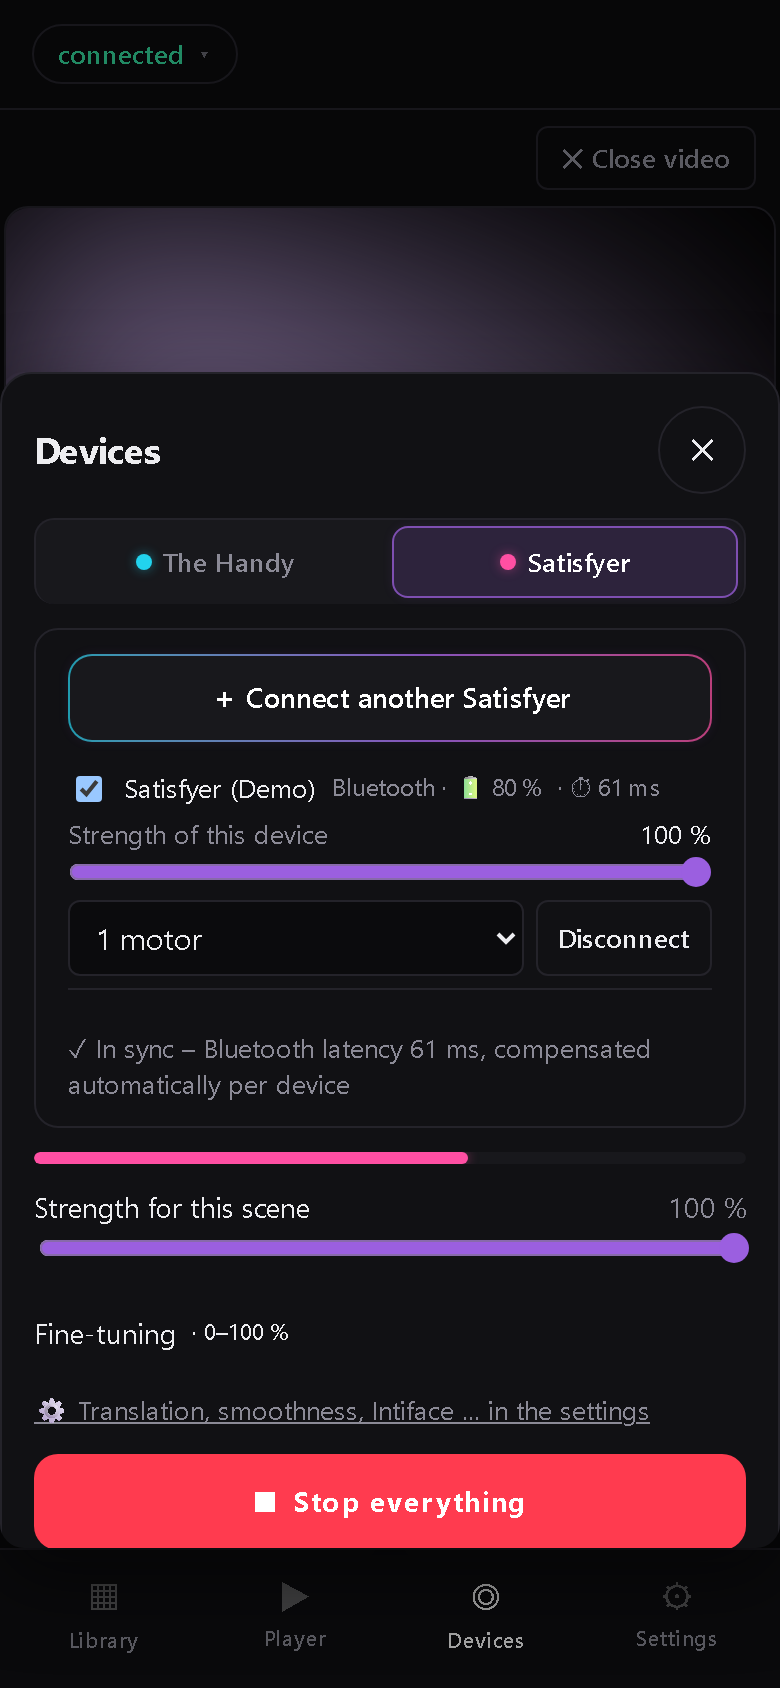
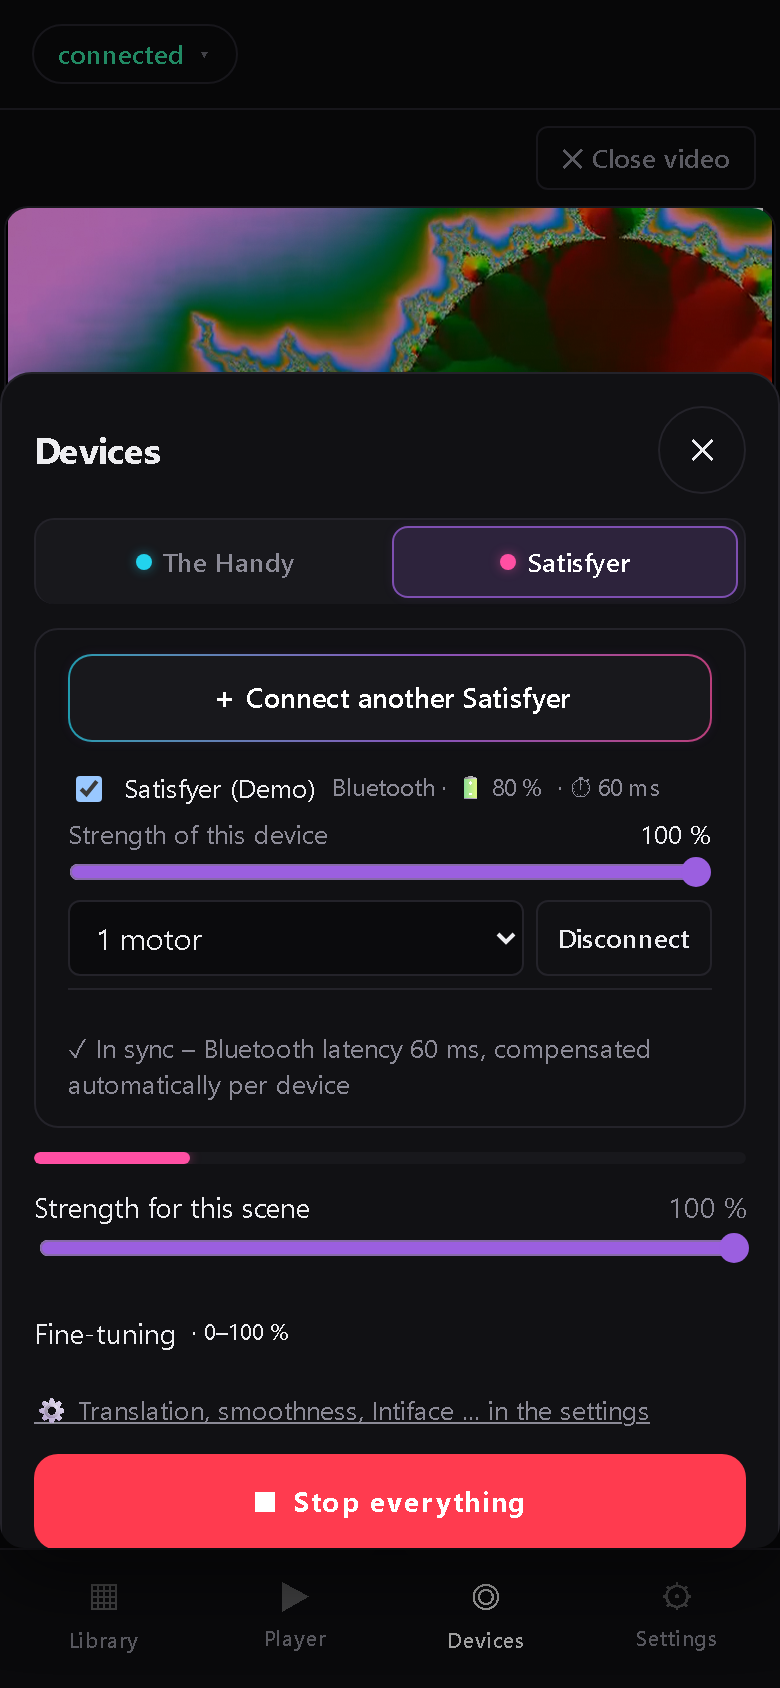
GitHub-Seite: scharfe Screenshots, kürzere README, „Läuft auf“, Coming next, neuer ZIP-Name
- Screenshots/GIF scharf mit neutralen Testvideos und Titeln (Demo-Geräte, ohne Weichzeichner)
- README: lange Abschnitte aufklappbar (Kurzfassung bleibt sichtbar), Liste „Runs on“ beim Schnellstart,
  „Coming next“ (TV-Streamen in Test), Links zu Discussions
- Release: ab 2.0 heißt das ZIP funscript-player-vX.Y.Z.zip (Ordner funscript-player), 1.x unverändert;
  oben in jedem Release ein fester Block „Install / Update“ (bei Vorabversionen mit PLAYER_VERSION)
- Issue-Vorlagen: Link „Questions & ideas“ zu Discussions

Changed region(s): [[0.0, 0.1232, 1.0, 0.2464], [0.2462, 0.6777, 0.6154, 0.7085]]

diff --git a/README.md b/README.md
@@ -36,7 +36,7 @@
   <img src="docs/img/screens/phone-devices.png" alt="Devices: The Handy and Satisfyer" width="260">
 </p>
 <p align="center"><img src="docs/img/screens/desktop-player.png" alt="The player on a PC: video, script intensity, devices and the up-next list" width="100%"></p>
-<p align="center"><sub>Screenshots from the built-in demo mode (<code>/demo</code>): videos, previews and names are blurred.</sub></p>
+<p align="center"><sub>Screenshots with neutral test videos and virtual devices (built-in demo mode, <code>/demo</code>).</sub></p>
 
 <p align="center">
   <img src="docs/img/gh/h-for-whom.svg" alt="Who is it for? Whatever you own" width="100%">
@@ -72,11 +72,10 @@ the Funscript – at the same time, from the same script. It runs on your own se
 
 ## 🚀 Quick start
 
-You need a server with **Docker** (Linux, NAS, Raspberry Pi, Mac with Apple silicon – images for amd64 and arm64).
-Grab `handy-player-linux-vX.Y.Z.zip` from the [latest release](../../releases/latest) (or clone this repo), then:
+Grab `funscript-player-vX.Y.Z.zip` from the [latest release](../../releases/latest) (or clone this repo), then:
 
 ```bash
-unzip handy-player-linux-vX.Y.Z.zip && cd handy-player
+unzip funscript-player-vX.Y.Z.zip && cd funscript-player
 cp .env.example .env
 nano .env                       # login, Stash address, video folder
 docker compose up -d
@@ -85,37 +84,57 @@ docker logs Funscript-Player    # startup summary with self-check, ends with “
 
 Open `http://<server>:8080`.
 
-- **Login** – required since 2.0. Either set `AUTH_USER` + `AUTH_PASS` in `.env`, or leave them empty: the player then
-  opens a **setup page** where you choose user name and password (change or remove it later in ⚙ → Security &
-  privacy). `LOGIN=off` only if a reverse proxy with its own login protects the player. Forgotten? `LOGIN_RESET=1`,
-  restart, remove the line again.
-- **Stash** – `STASH_URL` is seen from inside the container: on a shared Docker network use the container name
-  (`http://Stash:9999`), not `localhost`. No Stash? `STASH=off`. Address and API key can also be changed in ⚙ → Library.
-- **Video folders** – `MEDIA=/path/to/videos`: every subfolder becomes a source. A video and its script share the
-  name (`Name.mp4` + `Name.funscript`).
-- **HTTPS** – needed for Bluetooth (Satisfyer) and “install as app”: put any reverse proxy in front (Traefik, Caddy,
-  nginx, Nginx Proxy Manager …), e.g. `https://player.example.com` → port 8080. See [Security](#-security--proxy).
+- **Login** – required. Set `AUTH_USER` + `AUTH_PASS` in `.env`, or leave them empty and choose user name and password
+  on the player's **setup page** (change or remove it later in ⚙ → Security & privacy).
+- **Stash** – `STASH_URL` as seen from the container: on a shared Docker network the container name
+  (`http://Stash:9999`), not `localhost`. No Stash? `STASH=off`.
+- **Video folders** – `MEDIA=/path/to/videos`: every subfolder becomes a source; video and script share the name
+  (`Name.mp4` + `Name.funscript`).
+- **HTTPS** – needed for Bluetooth and “install as app”: put any reverse proxy in front (Traefik, Caddy, nginx …).
+  See [Security & proxy](#-security--proxy).
 - **Update** – `docker compose pull && docker compose up -d`. Your `.env` and the `funscript-data` volume stay.
-  Want to try what's next? `PLAYER_VERSION=edge` follows the latest tested state of `main`.
-- **Intel graphics** (optional, faster HQ stream) – enable the two `/dev/dri` lines in `docker-compose.yml` and set
-  `RENDER_GID` (`getent group render`). Without them the HQ stream runs on the CPU.
 
 Everything else is optional and commented out at the bottom of `.env.example`.
 
+### ✅ Runs on
+
+- **Server:** anything with Docker – Linux PC, NAS, Raspberry Pi 4/5, Mac with Apple silicon (images for amd64 + arm64).
+  Intel graphics make the HQ stream faster (optional); without them it runs on the CPU.
+- **Player:** any current browser on phone, tablet or PC – installable as an app.
+- **The Handy over Wi-Fi:** every browser. **Satisfyer via Bluetooth:** Chrome or Edge on Android, Windows, macOS,
+  Linux; on iPhone/iPad the *Bluefy* browser. Bluetooth needs **HTTPS** (or `localhost`).
+- **Without browser Bluetooth:** Satisfyer and Handy via [Intiface Central](https://intiface.com/central/) in your
+  home network.
+- **VR:** HereSphere (Quest and others).
+
 ## 📱 Using it
 
+Tap the status at the top → connect the Handy (connection key) and/or the Satisfyer → pick a scene → play.
+
+<details>
+<summary>More</summary>
+
 1. Tap the status at the top (or **Devices**) → connect the Handy with its connection key and/or the Satisfyer via
-   Bluetooth (Chrome/Edge on Android or PC; on iPhone the *Bluefy* app).
+   Bluetooth.
 2. Pick a scene in the library and press play. Below the video you only see the controls of connected devices.
 3. If a script is off: shift the **offset** or tap along to calibrate it (saved per scene).
 
 Settings are grouped into pages: Devices, Security & privacy, Script, Library, Picture & display, VR & HereSphere,
-System. ⚙ → System shows **“Update available”** when there is a newer release.
+System. ⚙ → System shows **“Update available”** when there is a newer release. The interface speaks English and
+German. Want to try what's next? `PLAYER_VERSION=edge` follows the latest tested state of `main`.
+</details>
 
 ## 🔒 Security & proxy
 
-- **Login is required.** Rule order: `.env` (`AUTH_USER`/`AUTH_PASS`) > login set up in ⚙ > `LOGIN=off` > setup page.
-  Passwords set in the interface are stored as scrypt hashes; 10 wrong attempts per minute lock out guessing.
+Login required, passwords hashed, brute-force brake, hardened read-only container. Behind a proxy with its own login,
+exclude **only `/heresphere`**.
+
+<details>
+<summary>Details</summary>
+
+- **Login:** rule order `.env` (`AUTH_USER`/`AUTH_PASS`) > login set up in ⚙ > `LOGIN=off` > setup page. Passwords
+  set in the interface are stored as scrypt hashes; 10 wrong attempts per minute lock out guessing. `LOGIN=off` only
+  if a reverse proxy with its own login protects the player. Forgotten? `LOGIN_RESET=1`, restart, remove the line.
 - **Reverse proxy with its own login:** exclude **only `/heresphere`** (HereSphere can't do browser logins) – never
   `/stash` or `/media`. `PLAYER_BIND=127.0.0.1` publishes the port only on the server itself, so nobody gets past
   the proxy.
@@ -129,22 +148,35 @@ System. ⚙ → System shows **“Update available”** when there is a newer
 - Intiface relay: home-network addresses and port 12345 only (`INTIFACE_LAN_ONLY`, `INTIFACE_PORTS`).
 
 Found a vulnerability? See [SECURITY.md](SECURITY.md).
+</details>
 
 ## 🛡 Privacy
+
+The server needs no internet. Only the Handy over Wi-Fi uses the Handy cloud (handyfeeling.com) – your browser sends
+the connection key and the current script there; videos and titles stay home.
+
+<details>
+<summary>Details</summary>
 
 - **The container needs no internet access.** It only talks to Stash and serves the player to your browser. The only
   exception is the optional update check (GitHub, at most every 6 h) – `UPDATE_CHECK=off` switches it off.
 - **The Handy over Wi-Fi goes through the Handy cloud (handyfeeling.com).** Your browser – not the server – sends
   your connection key and the **Funscript of the current video** there, because the Handy plays scripts from the
-  cloud. The script is uploaded as a CSV with the neutral name `script.csv`; videos and titles stay on your server.
+  cloud. The script is uploaded as a CSV with the neutral name `script.csv`.
 - The connection key is stored on your player server so all your devices know it.
 - **Satisfyer** connects via Bluetooth from the browser or through Intiface Central in your home network – no cloud.
   The Handy can also run via Bluetooth through Intiface, then without the Handy cloud.
+</details>
 
 ## 📚 Stash 0.32+
 
-Stash 0.32 rejects requests from networks it considers public when Stash has no login – the player then shows
-**“HTTP 403”**. Some Docker networks count as public. Two ways out:
+Shows **“HTTP 403”**? Stash rejects networks it considers public. ⚙ → Library shows the exact fix.
+
+<details>
+<summary>Details</summary>
+
+Stash 0.32 rejects requests from networks it considers public when Stash has no login; some Docker networks count as
+public. Two ways out:
 
 - Allow the player's network in Stash's `config.yml`, e.g. `public_whitelist: ["172.18.0.0/16"]`, and restart Stash.
   The player shows the exact line for your network in ⚙ → Library and in `docker logs`.
@@ -152,6 +184,7 @@ Stash 0.32 rejects requests from networks it considers public when Stash has no 
   leaves the player server.
 
 ⚙ → Library shows the connection status and has a **Test connection** button; the player retries every 30 s.
+</details>
 
 ## 🥽 VR (HereSphere)
 
@@ -159,11 +192,28 @@ Switch it on in ⚙ → VR & HereSphere, then open the player's normal addres
 `/heresphere` automatically. VR videos by default; categories for all scenes with scripts, saved Stash filters and
 folders. HereSphere drives the Handy itself (enter the connection key there). `HERESPHERE=off` switches it off for good.
 
-## 💾 Data
+## 💾 Data & upgrading
 
-Everything the player stores lives in the `funscript-data` volume – back it up and you have backed up everything:
-settings shared by all devices (`prefs.json`), patterns (`store.json`), server switches and login hashes
+Everything the player stores lives in the `funscript-data` volume – back it up and you have backed up everything.
+
+<details>
+<summary>What is in the volume?</summary>
+
+Settings shared by all devices (`prefs.json`), patterns (`store.json`), server switches and login hashes
 (`settings.json`), your own scripts (`scripts/`, `userscripts.json`) and the Handy upload cache.
+</details>
+
+<details>
+<summary>Upgrading from 1.19 to 2.0</summary>
+
+- Take the new `docker-compose.yml` and compare your `.env` with the new `.env.example`. Video folders are now one
+  line: `MEDIA=/path` (its subfolders become sources) instead of `MEDIA_FILME`, `MEDIA_DOWNLOADS` … – or keep your own
+  extra volume lines. The ZIP and its folder are now called `funscript-player` (before: `handy-player`); you can keep
+  your old folder.
+- Set a login (`AUTH_USER`/`AUTH_PASS`) or use the setup page on first start.
+- Behind a reverse proxy: remove the exceptions for `/stash` and `/media`, keep only `/heresphere`.
+- HereSphere users: reload the library in HereSphere once (addresses changed).
+</details>
 
 <details>
 <summary>Upgrading from 1.19.6 or older (container and volume were renamed)</summary>
@@ -180,17 +230,6 @@ docker compose pull && docker compose up -d
 ```
 </details>
 
-<details>
-<summary>Upgrading from 1.19 to 2.0</summary>
-
-- Take the new `docker-compose.yml` and compare your `.env` with the new `.env.example`. Video folders are now one
-  line: `MEDIA=/path` (its subfolders become sources) instead of `MEDIA_FILME`, `MEDIA_DOWNLOADS` … – or keep your own
-  extra volume lines.
-- Set a login (`AUTH_USER`/`AUTH_PASS`) or use the setup page on first start.
-- Behind a reverse proxy: remove the exceptions for `/stash` and `/media`, keep only `/heresphere`.
-- HereSphere users: reload the library in HereSphere once (addresses changed).
-</details>
-
 ## ❓ FAQ / Troubleshooting
 
 - **“Handy is not online”** – the Handy must be in Wi-Fi mode and online (LED blue) and the connection key right.
@@ -200,8 +239,16 @@ docker compose pull && docker compose up -d
   answers slowly.
 - **Stash not reachable** – check the line `Stash:` in `docker logs Funscript-Player` and ⚙ → Library →
   *Test connection*. `HTTP 403` → see [Stash 0.32+](#-stash-032).
-- **HQ stream says “CPU” or “not available”** – enable `/dev/dri` (Intel graphics only) and set `RENDER_GID`.
+- **HQ stream says “CPU” or “not available”** – enable `/dev/dri` in `docker-compose.yml` (Intel graphics only) and
+  set `RENDER_GID` (`getent group render`).
 - **Locked out** – `LOGIN_RESET=1` in `.env`, `docker compose up -d`, log in / set up again, remove the line.
+
+Questions or ideas? [Discussions](../../discussions) · Found a bug? [Issues](../../issues/new/choose)
+
+## 🗺 Coming next
+
+- 📺 **Stream to your TV** (Chromecast / AirPlay) while the devices stay in sync – in testing
+- Your idea? Post it in [Discussions](../../discussions)
 
 ## 🛠 Development
 
@@ -211,7 +258,7 @@ node --test "test/*.test.js"                           # tests incl. a browser s
 ```
 
 Technical details: [DEVELOPMENT.md](DEVELOPMENT.md) · Release history: [CHANGELOG.md](CHANGELOG.md) · Want to help?
-[CONTRIBUTING.md](CONTRIBUTING.md). The user interface is available in English and German.
+[CONTRIBUTING.md](CONTRIBUTING.md)
 
 ## Trademarks & how it is made
 
@@ -232,6 +279,6 @@ its source code under the same license.
 <p align="center">
   <a href="../../releases"><b>Releases</b></a> ·
   <a href="CHANGELOG.md"><b>Changelog</b></a> ·
-  <a href="DEVELOPMENT.md"><b>Developer docs</b></a> ·
-  <a href="../../issues/new/choose"><b>Report a bug / idea</b></a>
+  <a href="../../discussions"><b>Discussions</b></a> ·
+  <a href="../../issues/new/choose"><b>Report a bug</b></a>
 </p>
